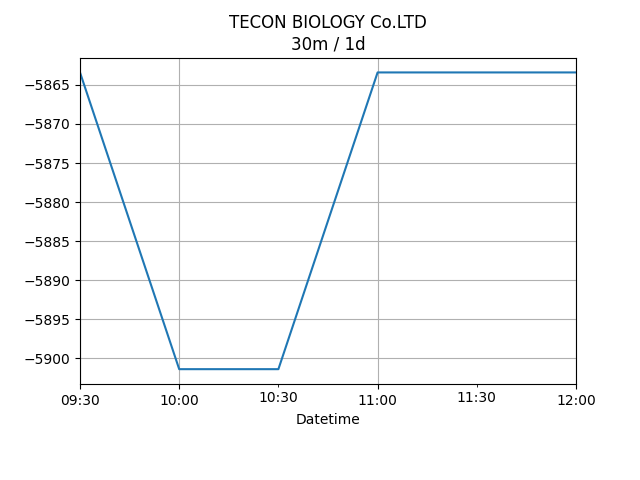
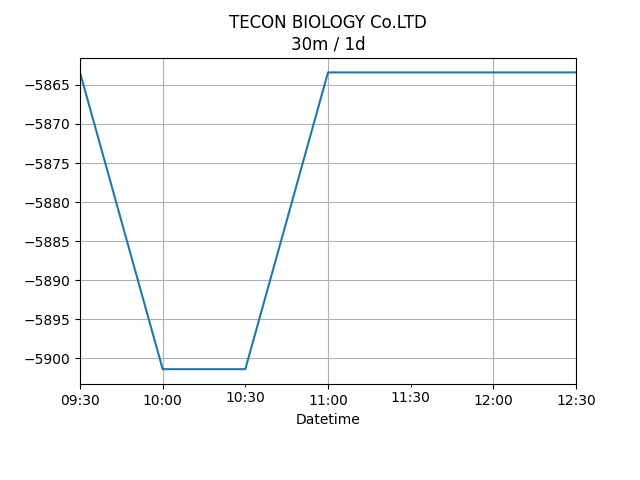
github action

diff --git a/record/mm/summary.md b/record/mm/summary.md
@@ -2,7 +2,7 @@
 ### $4511.60
 |type|graph|data|
 |:---:|:---:|:---:|
-|30m / 1d|![net_profit](image/overall_30m-1d.png)|<table border="1" class="dataframe"> <thead> <tr style="text-align: center;"> <th>Datetime</th> <th>profit</th> </tr> </thead> <tbody> <tr> <td>01:30</td> <td>4761.6</td> </tr> <tr> <td>02:00</td> <td>4723.6</td> </tr> <tr> <td>02:30</td> <td>4723.6</td> </tr> <tr> <td>03:00</td> <td>4511.6</td> </tr> <tr> <td>03:30</td> <td>4511.6</td> </tr> <tr> <td>04:00</td> <td>4511.6</td> </tr> </tbody></table>|
+|30m / 1d|![net_profit](image/overall_30m-1d.png)|<table border="1" class="dataframe"> <thead> <tr style="text-align: center;"> <th>Datetime</th> <th>profit</th> </tr> </thead> <tbody> <tr> <td>01:30</td> <td>4761.6</td> </tr> <tr> <td>02:00</td> <td>4723.6</td> </tr> <tr> <td>02:30</td> <td>4723.6</td> </tr> <tr> <td>03:00</td> <td>4511.6</td> </tr> <tr> <td>03:30</td> <td>4511.6</td> </tr> <tr> <td>04:00</td> <td>4511.6</td> </tr> <tr> <td>04:30</td> <td>4511.6</td> </tr> </tbody></table>|
 |1d / 5d|![net_profit](image/overall_1d-5d.png)|<table border="1" class="dataframe"> <thead> <tr style="text-align: center;"> <th>Date</th> <th>profit</th> </tr> </thead> <tbody> <tr> <td>2025-07-24</td> <td>4521.6</td> </tr> <tr> <td>2025-07-27</td> <td>4733.6</td> </tr> <tr> <td>2025-07-28</td> <td>4690.6</td> </tr> <tr> <td>2025-07-29</td> <td>5929.6</td> </tr> <tr> <td>2025-07-30</td> <td>4511.6</td> </tr> </tbody></table>|
 |1wk / 1mo|![net_profit](image/overall_1wk-1mo.png)|<table border="1" class="dataframe"> <thead> <tr style="text-align: center;"> <th>Date</th> <th>profit</th> </tr> </thead> <tbody> <tr> <td>2025-06-29</td> <td>4691.6</td> </tr> <tr> <td>2025-07-06</td> <td>2245.6</td> </tr> <tr> <td>2025-07-13</td> <td>2283.6</td> </tr> <tr> <td>2025-07-20</td> <td>4521.6</td> </tr> <tr> <td>2025-07-27</td> <td>4511.6</td> </tr> </tbody></table>|
 ---
@@ -10,7 +10,7 @@
 #### TECON BIOLOGY Co.LTD
 |price|profit|data|
 |:---:|:---:|:---:|
-|![price](image/002100.SZ_30m-1d_price.png)|![profit](image/002100.SZ_30m-1d_profit.png)|<table border="1" class="dataframe"> <thead> <tr style="text-align: center;"> <th>Datetime</th> <th>profit</th> </tr> </thead> <tbody> <tr> <td>09:30</td> <td>-5863.4</td> </tr> <tr> <td>10:00</td> <td>-5901.4</td> </tr> <tr> <td>10:30</td> <td>-5901.4</td> </tr> <tr> <td>11:00</td> <td>-5863.4</td> </tr> <tr> <td>11:30</td> <td>-5863.4</td> </tr> <tr> <td>12:00</td> <td>-5863.4</td> </tr> </tbody></table>|
+|![price](image/002100.SZ_30m-1d_price.png)|![profit](image/002100.SZ_30m-1d_profit.png)|<table border="1" class="dataframe"> <thead> <tr style="text-align: center;"> <th>Datetime</th> <th>profit</th> </tr> </thead> <tbody> <tr> <td>09:30</td> <td>-5863.4</td> </tr> <tr> <td>10:00</td> <td>-5901.4</td> </tr> <tr> <td>10:30</td> <td>-5901.4</td> </tr> <tr> <td>11:00</td> <td>-5863.4</td> </tr> <tr> <td>11:30</td> <td>-5863.4</td> </tr> <tr> <td>12:00</td> <td>-5863.4</td> </tr> <tr> <td>12:30</td> <td>-5863.4</td> </tr> </tbody></table>|
 |![price](image/002100.SZ_1d-5d_price.png)|![profit](image/002100.SZ_1d-5d_profit.png)|<table border="1" class="dataframe"> <thead> <tr style="text-align: center;"> <th>Date</th> <th>profit</th> </tr> </thead> <tbody> <tr> <td>2025-07-25</td> <td>-5103.4</td> </tr> <tr> <td>2025-07-28</td> <td>-5141.4</td> </tr> <tr> <td>2025-07-29</td> <td>-5559.4</td> </tr> <tr> <td>2025-07-30</td> <td>-5445.4</td> </tr> <tr> <td>2025-07-31</td> <td>-5863.4</td> </tr> </tbody></table>|
 |![price](image/002100.SZ_1wk-1mo_price.png)|![profit](image/002100.SZ_1wk-1mo_profit.png)|<table border="1" class="dataframe"> <thead> <tr style="text-align: center;"> <th>Date</th> <th>profit</th> </tr> </thead> <tbody> <tr> <td>2025-06-30</td> <td>-6433.4</td> </tr> <tr> <td>2025-07-07</td> <td>-6129.4</td> </tr> <tr> <td>2025-07-14</td> <td>-6091.4</td> </tr> <tr> <td>2025-07-21</td> <td>-5103.4</td> </tr> <tr> <td>2025-07-28</td> <td>-5863.4</td> </tr> </tbody></table>|
 ---
